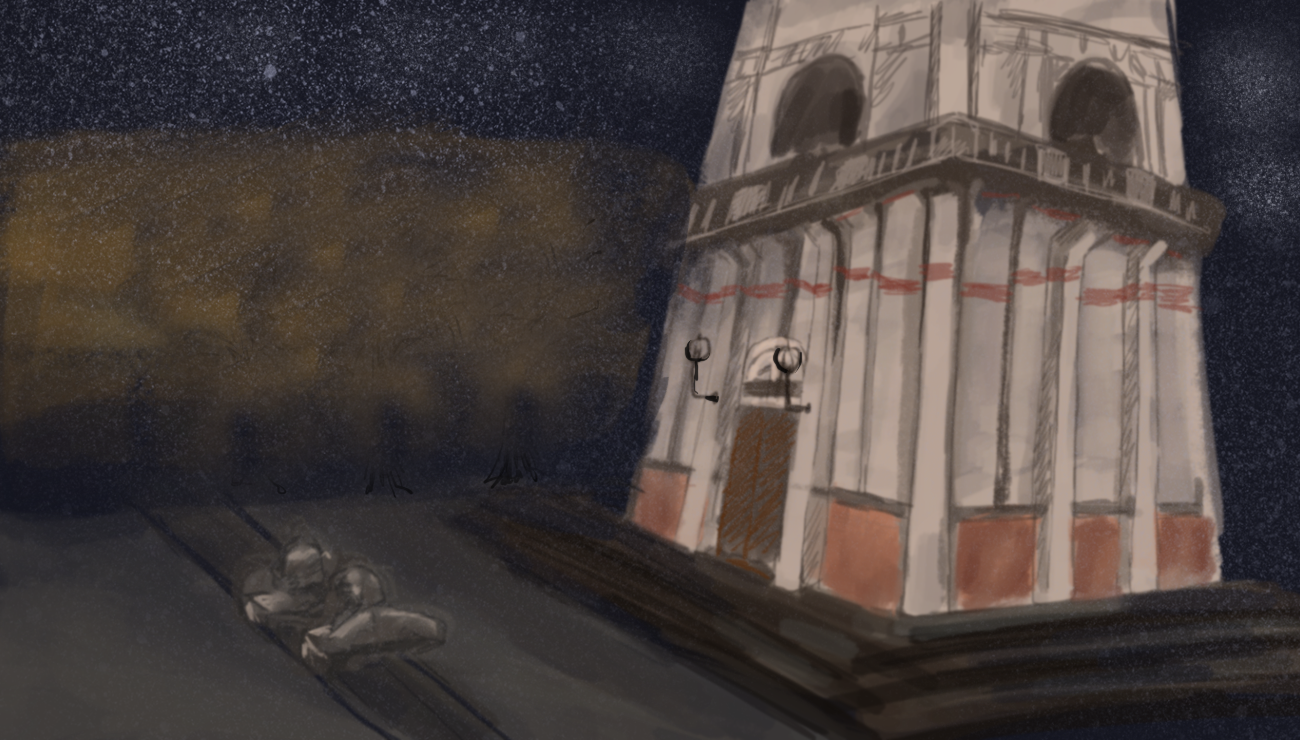
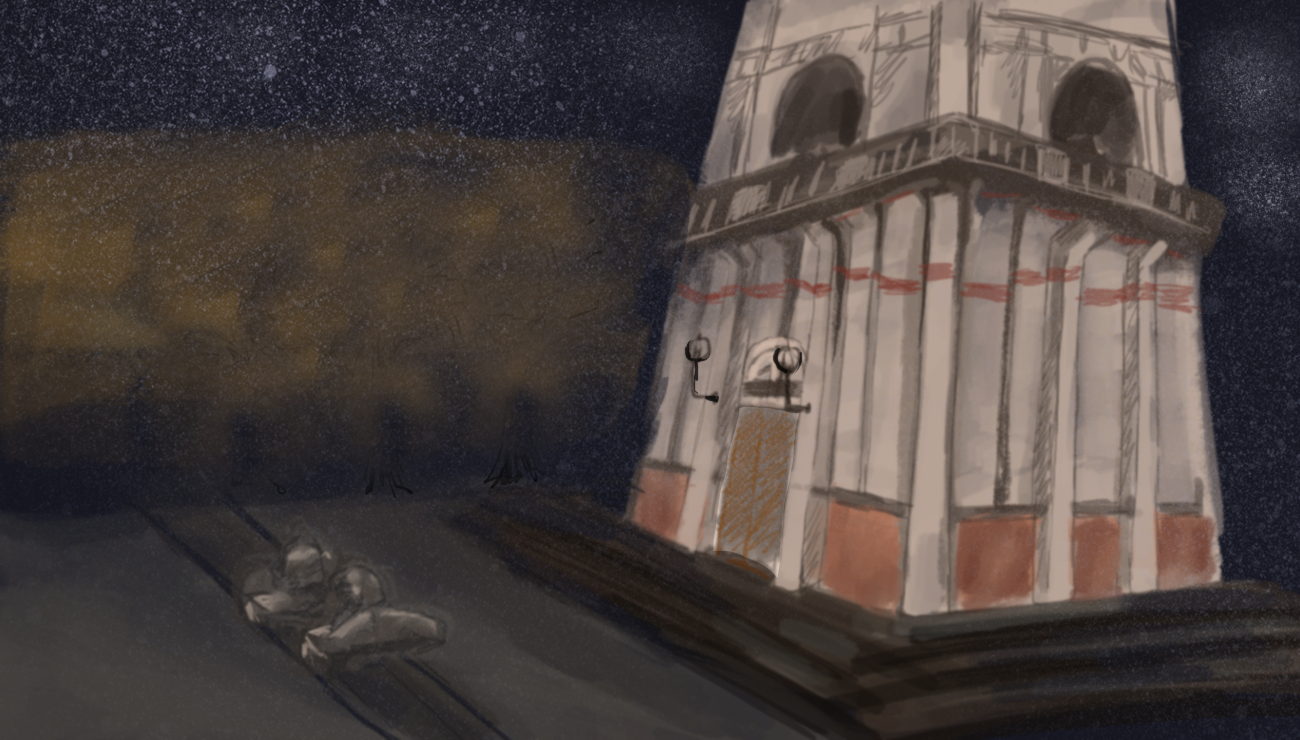
M

Changed region(s): [[0.5231, 0.5284, 0.6154, 0.777]]

diff --git a/web/outside.html b/web/outside.html
@@ -1,14 +1,19 @@
 <div>
 
+    <img class="bg" src="img/queenstower.png" />
     <!--TODO - This scene needs as background the outdoors scene at night-->
 
     <!--TODO replace this with the clickable door-->
-    <p ng-click="outside_door_click()">Door</p>
+    <!-- <p ng-click="outside_door_click()">Door</p> -->
 
-    <!--TODO replace this with the clickable lion-->
-    <p ng-click="outside_lion_click()">Lion</p>
+    <img id="lion_white" class="obj" src="{{imgsrc3}}" ng-init="imgsrc3='img/lion_blank.png'" ng-mouseover="imgsrc3='img/lion_white.png'" ng-mouseout="imgsrc3='img/lion_blank.png'" ng-mouseover="bookshelf_open_tower_voice()" style="z-index: 1200" ng-click="outside_lion_click()" />
 
+
+    <img id="door_white" class="obj" src="{{imgsrc4}}" ng-init="imgsrc4='img/door_blank.png'" ng-mouseover="imgsrc4='img/door_white.png'" ng-mouseout="imgsrc4='img/door_blank.png'" ng-mouseover="bookshelf_open_tower_voice()" style="z-index: 1200" ng-click="outside_door_click()" />
+    
     <!--subtitles-->
     <p>{{narration.outside_door}}</p>
+
+
 
 </div>

diff --git a/web/css/style.css b/web/css/style.css
@@ -153,3 +153,17 @@ body {
     top: 176px;
     left: 916px;
 }
+#lion_white {
+    top: 565px;
+    left: 300px;
+}
+#lion_white:hover {
+    opacity: 0.3;
+}
+#door_white {
+    left: 714px;
+    top: 407px;
+}
+#door_white:hover {
+    opacity: 0.3;
+}

diff --git a/web/lion.html b/web/lion.html
@@ -2,6 +2,7 @@
 
     <!--TODO - This scene needs as background the outdoors scene at night-->
 
+    <img class="bg" src="img/lion_bg.png" />
     <p ng-click="lion_click()">Lion_bottom</p>
 
     <!--subtitles-->
